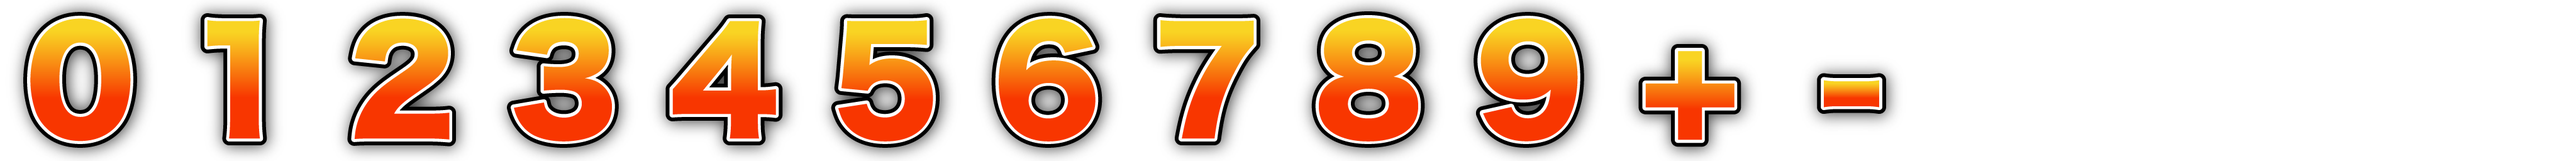
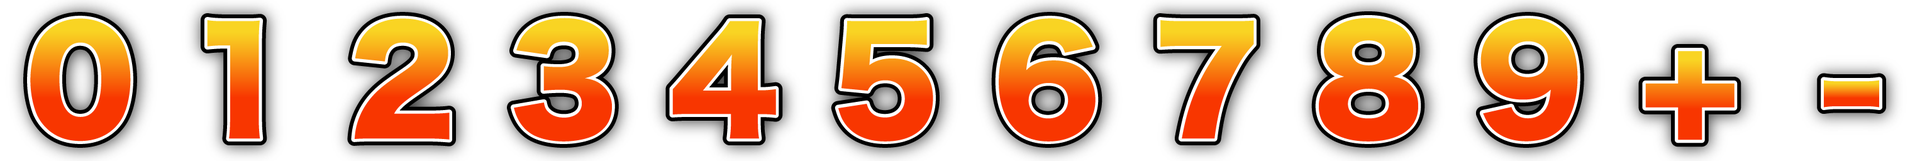
最大アニメーション数を16から12に修正し、ダメージ表示用の画像を更新

diff --git a/src/js/game-object/damage-indicator/view/player-damage-indicator-view.ts b/src/js/game-object/damage-indicator/view/player-damage-indicator-view.ts
@@ -12,9 +12,16 @@ import {
 import { DamageIndicatorModel } from "../model/damage-indicator-model";
 import { DamageIndicatorView } from "./damage-indicator-view";
 
+/** メッシュのサイズ */
 export const MESH_SIZE = 50;
+
+/** 最大メッシュ数 */
 export const MAX_NUMBER_SIZE = 4;
-export const MAX_ANIMATION = 16;
+
+/** 最大アニメーション数 */
+export const MAX_ANIMATION = 12;
+
+/** グループ間のパディング */
 export const GROUP_PADDING = 30;
 
 /** プレイヤーのダメージインジケータビュー */
